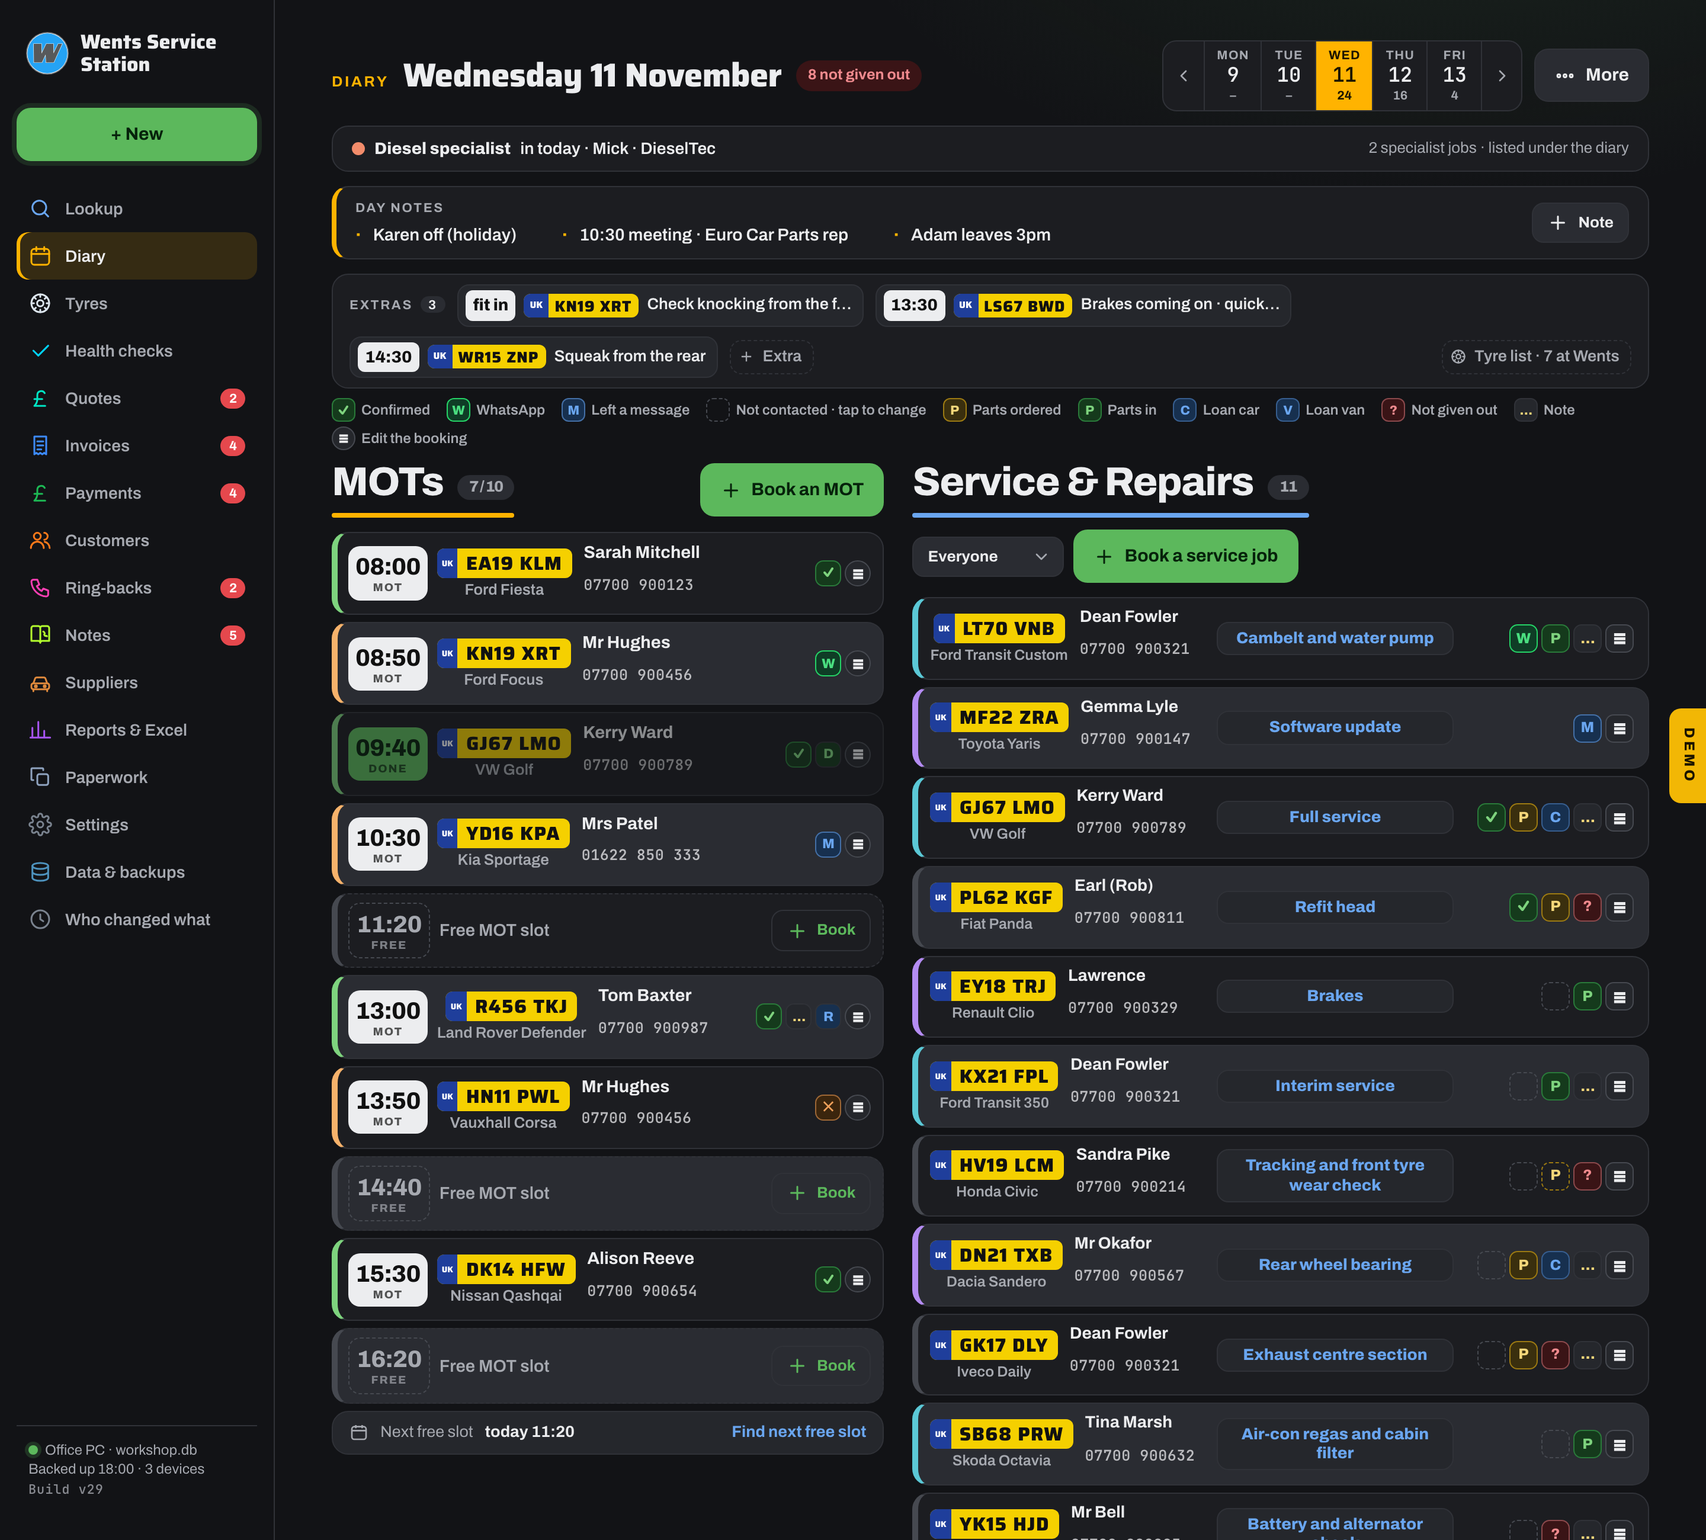
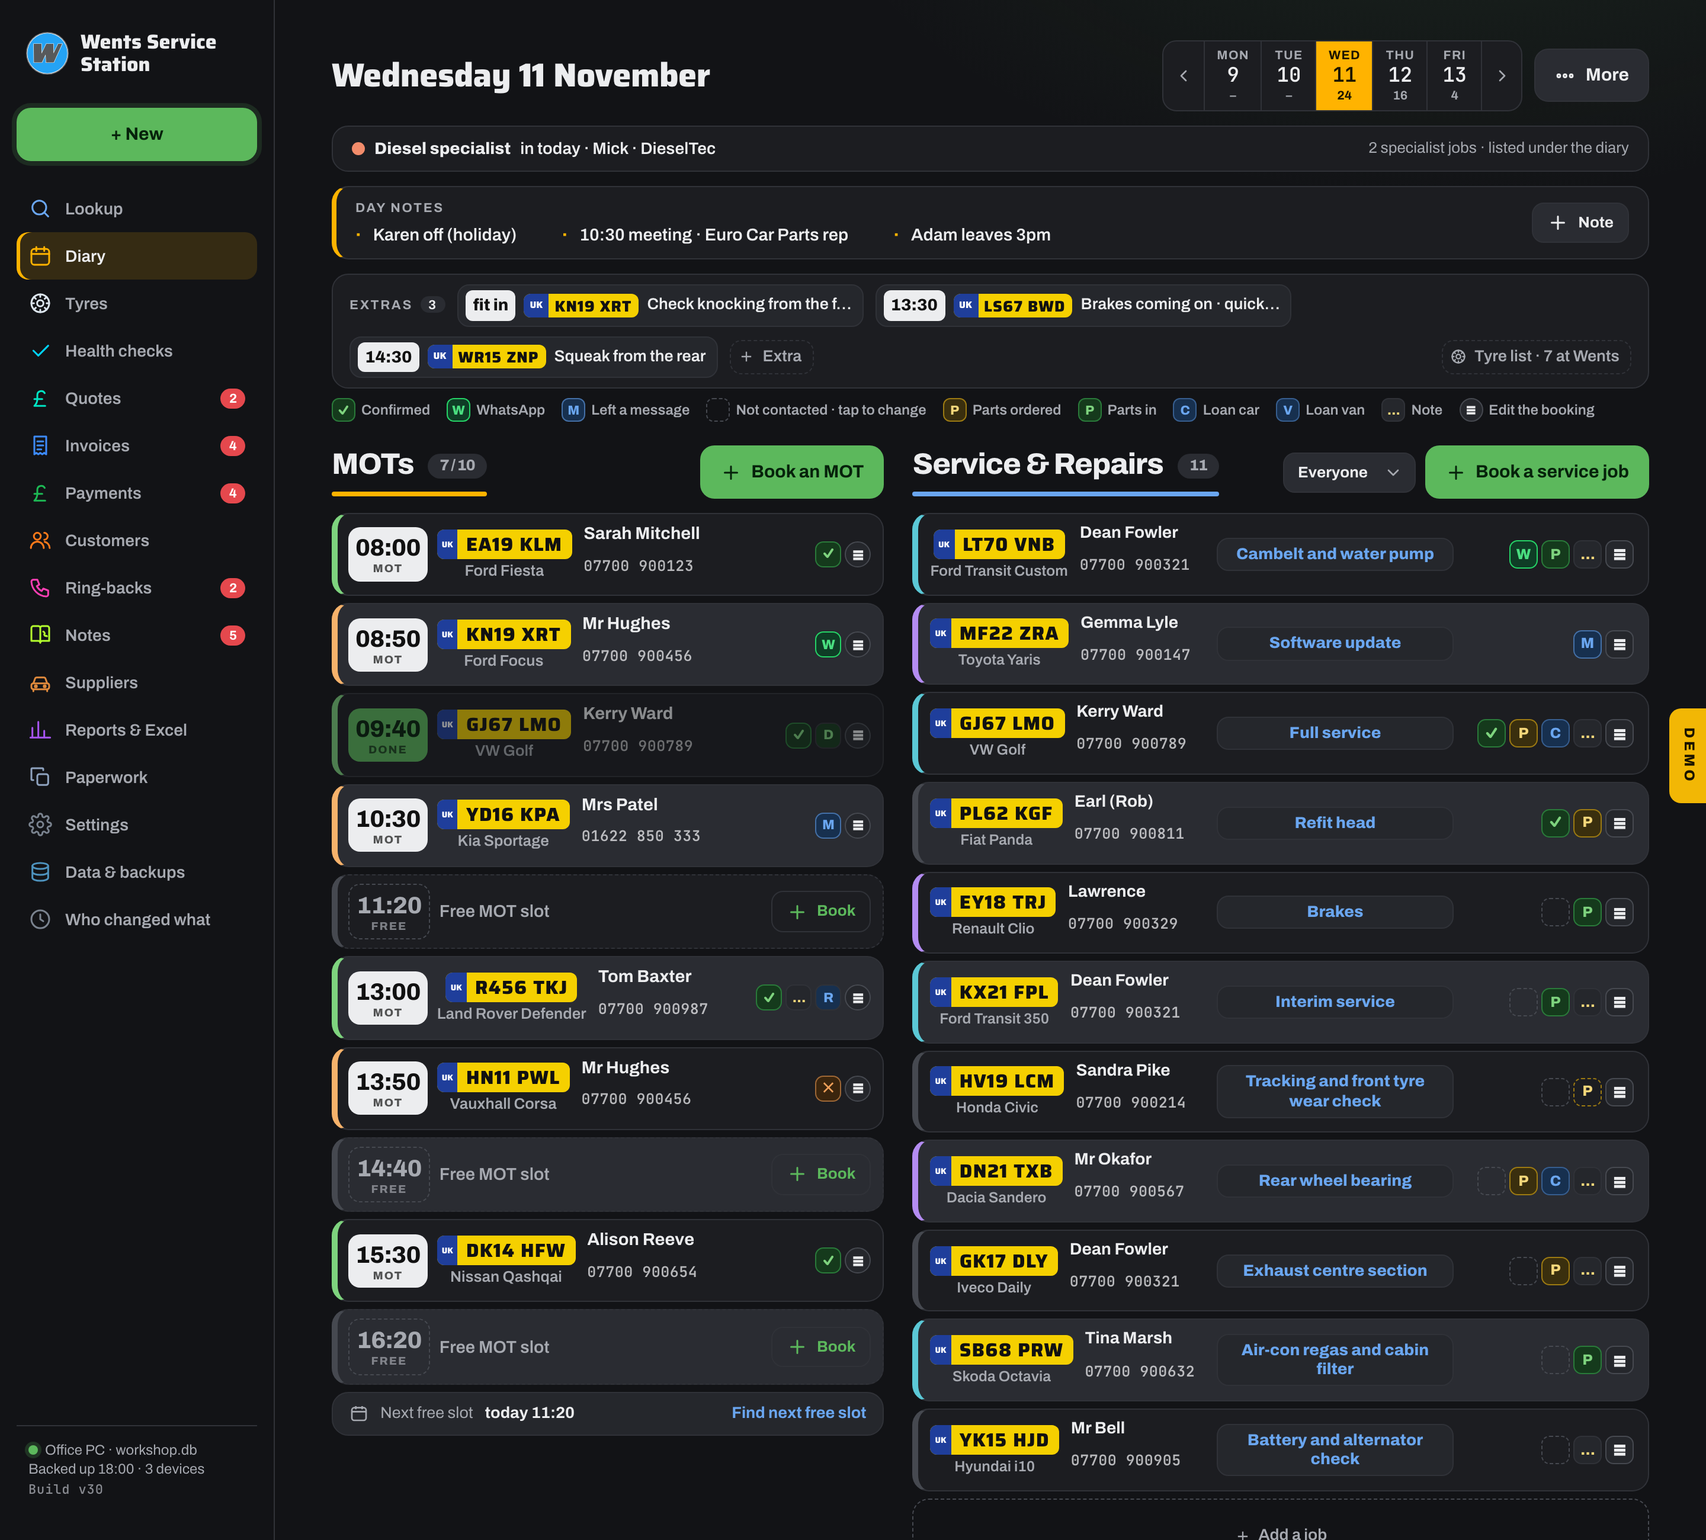
Mock round 34: Service & Repairs controls sit on the title row so both columns start level, a little more room above the column titles, Not given out removed from the legend, header pill and row squares, Diary label dropped from the page header and the date moved left; workshop-v30

Changed region(s): [[0.1875, 0.2492, 0.9688, 1.0], [0.1875, 0.0312, 0.5625, 0.0623], [0.875, 0.9658, 0.9688, 1.0]]

diff --git a/mock/index.html b/mock/index.html
@@ -885,7 +885,7 @@ a.stat{display:block} a.stat:hover{border-color:var(--line-strong)}
 /* round 19 · diary: notes across the top, section buttons, booking form in two equal columns */
 .secctl{display:flex;gap:8px;align-items:center;flex-wrap:wrap} .secctl .sel{margin:0}
 .dvsec .sechd{margin-bottom:8px} .dvsec .sechd .btn.pri{box-shadow:none}
-.dv .dvsec.colh .sechd{align-items:center;margin-bottom:12px} .dv .dvsec.colh h2{position:relative;font-size:30px;font-weight:900;letter-spacing:-.025em;line-height:1;padding:0 0 12px;gap:12px;align-items:baseline} .dv .dvsec.colh h2::after{content:'';position:absolute;left:0;bottom:0;height:4px;width:100%;border-radius:2px;background:var(--hc)} .dv .dvsec.colh.mot{--hc:#FFB300} .dv .dvsec.colh.svc{--hc:var(--accent)} .dv .dvsec.colh h2 .pill{font-size:13px;font-weight:800;padding:4px 10px;transform:translateY(-3px)} @media (min-width:1400px){.dv .dvsec.colh h2{font-size:34px}} @media (max-width:600px){.dv .dvsec.colh h2{font-size:26px;padding-bottom:9px} .dv .dvsec.colh h2::after{height:3px}}
+.dv .dvsec.colh .sechd{align-items:center;margin-bottom:12px;padding-top:10px;flex-wrap:nowrap} .dv .dvsec.colh .sechd>div{min-width:0} .dv .dvsec.colh .secctl{flex-wrap:nowrap;flex:none} .dv .dvsec.colh .secctl .sel{max-width:112px} .dv .dvsec.colh .sechd .btn.pri{white-space:nowrap} .dv .dvsec.colh h2{position:relative;white-space:nowrap;font-size:25px;font-weight:900;letter-spacing:-.025em;line-height:1;padding:0 0 12px;gap:12px;align-items:baseline} .dv .dvsec.colh h2::after{content:'';position:absolute;left:0;bottom:0;height:4px;width:100%;border-radius:2px;background:var(--hc)} .dv .dvsec.colh.mot{--hc:#FFB300} .dv .dvsec.colh.svc{--hc:var(--accent)} .dv .dvsec.colh h2 .pill{font-size:13px;font-weight:800;padding:4px 10px;transform:translateY(-3px)} @media (min-width:1600px){.dv .dvsec.colh h2{font-size:30px}} @media (max-width:600px){.dv .dvsec.colh h2{font-size:26px;padding-bottom:9px} .dv .dvsec.colh h2::after{height:3px}}
 .bk2{display:grid;grid-template-columns:1fr 1fr;gap:0 18px} .bk2>.field{min-width:0} .bk2.bkx{grid-template-columns:repeat(auto-fit,minmax(230px,1fr))}
 .bkbox h2{display:flex;align-items:baseline;gap:12px;flex-wrap:wrap} .bkday{font-size:14px;font-weight:700;color:var(--sc,var(--accent));letter-spacing:.02em}
 .bkbox .regin{font-family:var(--font-mono);font-weight:700;letter-spacing:.06em}
@@ -1642,7 +1642,7 @@ S.diary=()=>{if(pendBook){const r=pendBook;pendBook=null;setTimeout(()=>{openBk(
  const carCus=(b,i,x)=>`<div class="vc"><div class="veh">${pv(b)}<small>${i.make||'<span class="muted">Make not set</span>'}</small></div><div class="cus"><b>${i.name||'<span class="muted">Name not set</span>'}</b>${tel(i)||'<span class="muted">no number</span>'}</div></div>${x||''}`;
  const jobRow=b=>{const i=bkV(b);const ty=b.k==='tyre'&&b.ty?tyFind(b.ty):null;const sp=b.k==='spec'&&b.sp?sps.find(x=>x.id===b.sp):null;
   const xt=b.k==='xtra'?`<span class="xt"><b>${b.t||'fit in'}</b>${b.mins?' · '+b.mins+' min':''}</span>`:b.k==='tyre'?`<span class="xt"><b>${b.t||'—'}</b> · call-out</span>`:b.k==='spec'?`<span class="xt"><b>${b.t||'—'}</b></span>`:'';
-  return `<div class="dvjob k-${b.k}" style="--who:${sp?sp.c:b.who?(WHO[b.who]||{c:'var(--line-strong)'}).c:'var(--line-strong)'}" onclick="openBk('${b.id}')"><div class="bm">${xt?`<div class="jt">${xt}</div>`:''}${carCus(b,i)}${b.k==='tyre'&&b.addr?`<div class="nt">${I.pin} ${esc(b.addr)}</div>`:''}</div><div class="jbx">${b.job?`<span class="jb">${b.job}</span>`:'<span class="muted">No job written down</span>'}</div><div class="rt">${ty?`<span class="pill ${TYCS[ty.r.cs][1]}">${TYCS[ty.r.cs][0]}</span><a class="pill" href="#/tyres/${ty.d}" onclick="event.stopPropagation()">${TYI}Tyre diary</a>`:''}${sqs(b,{cf:!ty,ng:!sp})}${edBtn(b)}</div></div>`};
+  return `<div class="dvjob k-${b.k}" style="--who:${sp?sp.c:b.who?(WHO[b.who]||{c:'var(--line-strong)'}).c:'var(--line-strong)'}" onclick="openBk('${b.id}')"><div class="bm">${xt?`<div class="jt">${xt}</div>`:''}${carCus(b,i)}${b.k==='tyre'&&b.addr?`<div class="nt">${I.pin} ${esc(b.addr)}</div>`:''}</div><div class="jbx">${b.job?`<span class="jb">${b.job}</span>`:'<span class="muted">No job written down</span>'}</div><div class="rt">${ty?`<span class="pill ${TYCS[ty.r.cs][1]}">${TYCS[ty.r.cs][0]}</span><a class="pill" href="#/tyres/${ty.d}" onclick="event.stopPropagation()">${TYI}Tyre diary</a>`:''}${sqs(b,{cf:!ty,ng:false})}${edBtn(b)}</div></div>`};
  const addRow=(l,k)=>`<div class="dvjob add" onclick="openBk('new','${k}')"><span class="muted">${I.plus} ${l}</span></div>`;
  const sec=(k,h,cap,ctl,body)=>show(k)?`<section class="dvsec${k==='svc'?' colh svc':''}"><div class="sechd"><div><h2>${h}</h2>${cap?`<p class="cap">${cap}</p>`:''}</div>${ctl||''}</div>${body}</section>`:'';
  const ab=(t,n=26)=>{t=String(t||'');return t.length>n?t.slice(0,n-1).trim()+'…':t};
@@ -1650,14 +1650,14 @@ S.diary=()=>{if(pendBook){const r=pendBook;pendBook=null;setTimeout(()=>{openBk(
  const strip=dTab==='all'?`<div class="dvstrip"><div class="lbl">Extras<em>${xtra.length}</em></div><div class="sxs">${xtra.map(sx).join('')}<button class="dsx add" onclick="openBk('new','xtra')">${I.plus}Extra</button><a class="dsx lnk" href="#/tyres/${day}">${TYI}Tyre list · ${tyn.cars} at Wents</a></div></div>`:'';
  const whoSel=`<select class="sel" onchange="whoF=this.value;go()" title="Whose jobs to show">${[['all','Everyone'],...Object.entries(FITTERS).map(([k,w])=>[k,w.n]),['none','Not given out']].map(([k,l])=>`<option value="${k}" ${whoF===k?'selected':''}>${l}</option>`).join('')}</select>`;
  return `<div class="dv tm-${tmv}">
- <div class="dvh"><div class="dvt"><span class="eyebrow">Diary</span><h1 class="title">${fmt(day,{weekday:'long',day:'numeric',month:'long'})}</h1>${none?`<span class="pill r" title="Jobs not given to anyone yet">${none} not given out</span>`:''}</div>
+ <div class="dvh"><div class="dvt"><h1 class="title">${fmt(day,{weekday:'long',day:'numeric',month:'long'})}</h1></div>
  <div class="dvacts"><div class="week"><button class="wk" onclick="day='${addD(mon,-7)}';go()" title="Previous week">${I.chev}</button>${wk.map(d=>`<button class="${d===day?'on':''}" onclick="day='${d}';go()">${fmt(d,{weekday:'short'})}<b>${new Date(d+'T12:00:00').getDate()}</b><span>${(BK[d]||[]).length||'–'}</span></button>`).join('')}<button class="wk" onclick="day='${addD(mon,7)}';go()" title="Next week">${I.chev}</button></div>
  <details class="menu"><summary class="btn">${I.more}More</summary><div class="pop"><div class="lbl">This day</div><a href="#/doc/diaryday/${day}">${I.dl}A4 day sheet</a><button onclick="prtDoc('diaryday','${day}')">${I.prt}Print day sheet</button><a href="#/tyres/${day}">${TYI}Tyre list <span class="n">${tyn.cars+tyn.co}</span></a><hr><div class="lbl">Bookings</div><button onclick="nextSlot()">${I.cal}Find next MOT slot</button><a href="#/ringround/${addD(day,1)}">${I.check}Confirm ${addD(day,1)===addD(TD,1)?'tomorrow':fmt(addD(day,1),{weekday:'short'})} <span class="n">${cf1.ok}/${cf1.tot}</span></a><a href="#/waitlist">${I.clock}Cancellation list <span class="n">${mcWaiting()}</span></a><hr><div class="lbl">Time style</div>${Object.entries(TMV).map(([k,l])=>`<button class="${tmv===k?'on':''}" onclick="setTmv('${k}')">${tmv===k?I.check:'<span class="sp"></span>'}${l}</button>`).join('')}<hr><div class="lbl">Show</div>${[['all','Whole day'],['mot','MOTs'],['svc','Service &amp; Repairs'],['xtra','Extras'],['tyre','Tyre call-outs'],['spec','Specialists']].map(([k,l])=>`<button class="${dTab===k?'on':''}" onclick="dTab='${k}';go()">${dTab===k?I.check:'<span class="sp"></span>'}${l}</button>`).join('')}</div></details>
 </div></div>
  ${sps.length&&dTab==='all'?`<div class="spban">${sps.map(x=>`<span class="spw" style="--c:${x.c}"><i></i><b>${x.n}</b> in today · ${x.who}</span>`).join('')}<span class="spn">${spec.length} specialist job${spec.length===1?'':'s'} · listed under the diary</span></div>`:''}
  ${dTab==='all'?`<div class="dvnotes"><div><div class="lbl">Day notes</div><ul>${notes.map((n,ix)=>`<li><span onclick="editNote(${ix})" title="Edit note">${n}</span><button class="x" onclick="NOTES['${day}'].splice(${ix},1);go()" title="Delete note">${I.x}</button></li>`).join('')||'<li class="none">Nothing noted · who is off, meeting times · prints at the top of the A4 sheet</li>'}</ul></div><button class="btn sm" onclick="addNote()">${I.plus}Note</button></div>`:''}
  ${strip}
- <div class="dvkey"><span><i class="sq cf ok">&#10003;</i>Confirmed</span><span><i class="sq cf wa">W</i>WhatsApp</span><span><i class="sq cf msg">M</i>Left a message</span><span><i class="sq cf none"></i>Not contacted · tap to change</span><span><i class="sq pt ordered">P</i>Parts ordered</span><span><i class="sq pt in">P</i>Parts in</span><span><i class="sq ln">C</i>Loan car</span><span><i class="sq ln">V</i>Loan van</span><span><i class="sq ng">?</i>Not given out</span><span><i class="sq nq">&#8230;</i>Note</span><span><i class="wlb edb">&#8801;</i>Edit the booking</span></div>
+ <div class="dvkey"><span><i class="sq cf ok">&#10003;</i>Confirmed</span><span><i class="sq cf wa">W</i>WhatsApp</span><span><i class="sq cf msg">M</i>Left a message</span><span><i class="sq cf none"></i>Not contacted · tap to change</span><span><i class="sq pt ordered">P</i>Parts ordered</span><span><i class="sq pt in">P</i>Parts in</span><span><i class="sq ln">C</i>Loan car</span><span><i class="sq ln">V</i>Loan van</span><span><i class="sq nq">&#8230;</i>Note</span><span><i class="wlb edb">&#8801;</i>Edit the booking</span></div>
  <div class="cols ${dTab==='all'?'':'one'}">
  ${show('mot')?`<section class="dvsec colh mot"><div class="sechd"><div><h2>MOTs <span class="pill ${freeN?'':'g'}">${mot.length} / ${SLOTS.length}</span></h2></div><button class="btn pri" onclick="openBk('new','mot')">${I.plus}Book an MOT</button></div><div class="dvramp">${SLOTS.map(slotRow).join('')}<div class="nextfree">${I.cal}${freeN?`Next free slot <b>${day===TD?'today':fmt(day,{weekday:'long'})} ${freeT[0]}</b>`:'<b>Ramp full</b>'}<a onclick="nextSlot()">Find next free slot</a></div></div></section>`:''}
  ${dTab!=='mot'?`<div class="dvr">
@@ -1672,7 +1672,7 @@ S.diary=()=>{if(pendBook){const r=pendBook;pendBook=null;setTimeout(()=>{openBk(
 const bkRow=b=>{const i=bkV(b);const js=JOBS.find(x=>x.r===b.reg&&x.st!=='inv');const open=i.known?`location.hash='#/vehicle/${enc(b.reg)}'`:`openBk('${b.id}')`;
  return `<div class="bk k-${b.k} ${b.st==='done'?'isdone':''}" style="--who:${b.who?(WHO[b.who]||{c:'var(--line-strong)'}).c:'var(--line-strong)'}">${b.k==='mot'?`<div class="tm">${b.t}<small>MOT slot</small></div>`:b.k==='tyre'?`<div class="tm">${b.t||'—'}<small>call-out</small></div>`:b.k==='xtra'?`<div class="tm">${b.t||'—'}<small>${b.mins?b.mins+' min':'fit in'}</small></div>`:`<div class="grab">⋮⋮</div>`}
  <div class="bm link" onclick="${open}"><h4>${i.make||'<span class="muted">Make not set</span>'}</h4><div class="ln">${plate(b.reg,'sm')}<b>${i.name}</b><a href="tel:${i.ph}" onclick="event.stopPropagation()">${i.ph}</a>${b.k==='tyre'?(x=>x?`<span class="pill ${TYCS[x.r.cs][1]}">${TYCS[x.r.cs][0]}</span><a class="pill" href="#/tyres/${x.d}" onclick="event.stopPropagation()">${TYI}Tyre diary</a>`:'')(b.ty?tyFind(b.ty):null):cfDot(b)+bkPills(b)}${b.st==='done'?'<span class="pill g">Done</span>':''}${(w=>w?`<span class="pill ${w.st==='wait'?'y':'g'} wl" title="On the cancellation list">${w.st==='wait'?'Waiting':w.st==='moved'?'Moved forward':'Rebooked'}</span>`:'')(wlOf(b.id))}</div>${b.job?`<div class="jb">${b.job}</div>`:''}${b.k==='tyre'&&b.addr?`<div class="nt">${I.pin} ${esc(b.addr)}</div>`:''}${b.nt?`<div class="nt">${b.nt}</div>`:''}</div>
- <div class="act">${b.parts&&PARTS[b.parts]?`<span class="pill ${PARTS[b.parts][1]}">${PARTS[b.parts][0]}</span>`:''}${b.loan?`<span class="pill b">${LOAN[b.loan]}</span>`:''}${b.who?'':'<span class="pill r">Not given out</span>'}${b.k==='tyre'?'':(w=>w?`<button class="btn sm ghost wlb on" onclick="wlShow('${w.id}')" title="On the cancellation list">${I.clock}Waiting list</button>`:`<button class="btn sm ghost wlb ic" onclick="wlFlag('${b.id}')" title="Wants an earlier slot · add to the cancellation list">${I.clock}</button>`)(wlOf(b.id))}<button class="btn sm" onclick="openBk('${b.id}')">Edit</button>${b.k==='tyre'?'':`<button class="btn sm ghost" onclick="openBk('${b.id}','move')">Move</button>`}${b.who?`<span class="whotag" style="--c:${WHO[b.who].c}" title="${WHO[b.who].n} is on it"><i>${WHO[b.who].n[0]}</i>${WHO[b.who].n}</span>`:''}${edBadge('booking',b.id)}</div></div>`};
+ <div class="act">${b.parts&&PARTS[b.parts]?`<span class="pill ${PARTS[b.parts][1]}">${PARTS[b.parts][0]}</span>`:''}${b.loan?`<span class="pill b">${LOAN[b.loan]}</span>`:''}${b.k==='tyre'?'':(w=>w?`<button class="btn sm ghost wlb on" onclick="wlShow('${w.id}')" title="On the cancellation list">${I.clock}Waiting list</button>`:`<button class="btn sm ghost wlb ic" onclick="wlFlag('${b.id}')" title="Wants an earlier slot · add to the cancellation list">${I.clock}</button>`)(wlOf(b.id))}<button class="btn sm" onclick="openBk('${b.id}')">Edit</button>${b.k==='tyre'?'':`<button class="btn sm ghost" onclick="openBk('${b.id}','move')">Move</button>`}${b.who?`<span class="whotag" style="--c:${WHO[b.who].c}" title="${WHO[b.who].n} is on it"><i>${WHO[b.who].n[0]}</i>${WHO[b.who].n}</span>`:''}${edBadge('booking',b.id)}</div></div>`};
 const bkModal=()=>{const b=edBk;const i=bkV(b);const d0=b.day||day;const mon0=addD(d0,-((new Date(d0+'T12:00:00').getDay()+6)%7));const days=[-5,-4,-3,-2,-1,0,1,2,3,4,7,8,9,10,11].map(n=>addD(mon0,n));if(!days.includes(d0))days.push(d0);days.sort();const KN={mot:'an MOT',svc:'a service job',xtra:'an extra',tyre:'a tyre call-out',spec:'a specialist job'};const sps=SPEC[d0]||[];if(b.view&&!b._pick)return bkView(b,i,d0,sps);
  const slotF=b.k==='mot'?`<label class="field"><span>MOT slot</span><select onchange="edBk.t=this.value">${SLOTS.map(t=>{const taken=(BK[d0]||[]).find(x=>x.k==='mot'&&x.t===t&&x.id!==b.id);return `<option value="${t}" ${b.t===t?'selected':''} ${taken?'disabled':''}>${t}${taken?' · taken':''}</option>`}).join('')}</select></label>`:b.k==='tyre'?`<label class="field"><span>Call-out time</span>${tmSel('edBk',b.t)}</label>`:b.k==='xtra'?`<label class="field"><span>Rough time</span><input value="${b.t||''}" placeholder="e.g. 13:30 or 'between jobs'" oninput="edBk.t=this.value"></label>`:b.k==='spec'?`${sps.length>1?`<label class="field"><span>Which specialist</span><select onchange="edBk.sp=this.value">${sps.map(x=>`<option value="${x.id}" ${b.sp===x.id?'selected':''}>${x.n} · ${x.who}</option>`).join('')}</select></label>`:''}<label class="field"><span>Time with the ${(sps.find(x=>x.id===b.sp)||sps[0]||{n:'specialist'}).n.toLowerCase()}</span>${tmSel('edBk',b.t)}</label>`:'';
  const dateF=b.fresh?'':`<label class="field"><span>Date</span><select onchange="edBk.day=this.value;go()">${days.map(d=>`<option value="${d}" ${d0===d?'selected':''}>${fmt(d,{weekday:'short',day:'numeric',month:'short'})}</option>`).join('')}</select></label>`;
@@ -3307,7 +3307,7 @@ const qa=v=>String(v==null?'':v).replace(/&/g,'&amp;').replace(/"/g,'&quot;').re
 const sq=(c,t,ti,oc)=>oc?`<button class="sq ${c}" title="${qa(ti)}" onclick="event.stopPropagation();${oc}">${t}</button>`:`<span class="sq ${c}" title="${qa(ti)}">${t}</span>`;
 const cfSq=b=>{const s=cfSt(b);return sq('cf '+s,CFG[s],CFS[s][0]+(b.cf&&b.cf.who&&WHO[b.cf.who]?' · '+WHO[b.cf.who].n+' '+b.cf.at:'')+' · tap to change',`cfCycle('${b.id}')`)};
 const ptSq=b=>{const s=b.parts&&PARTS[b.parts]?b.parts:(b.partsNote?'todo':'');if(!s)return '';return sq('pt '+s,'P',(s==='todo'?'Parts to order':PARTS[s][0])+(b.partsNote?' · '+b.partsNote:'')+' · tap to change',`ptCycle('${b.id}')`)};
-const sqs=(b,o={})=>{const w=wlOf(b.id);const aq=QUOTES.find(q=>q.r===b.reg&&q.appr&&q.appr.st==='approved'&&!q.inv);const ri=invoices.find(i=>i.reg===b.reg&&i.ready&&i.date<=day&&(new Date(day)-new Date(i.date))/864e5<=14);return (o.cf===false?'':cfSq(b))+ptSq(b)+(b.loan?sq('ln',b.loan==='car'?'C':'V',LOAN[b.loan]):'')+(o.ng===false||b.who?'':sq('ng','?','Not given out · nobody on it yet'))+(b.nt?sq('nq','&#8230;','Note · '+b.nt):'')+(aq?sq('ap','&pound;','Quote approved · '+apLine(aq)):'')+(ri?sq('rd','R','Ready · customer told '+ri.ready.at.slice(-5)):'')+(b.st==='done'?sq('dn','D','Done'):'')+(o.wl===false||!w?'':sq('wl '+w.st,I.clock,'On the cancellation list · '+(w.st==='wait'?'waiting':w.st==='moved'?'moved forward':'rebooked'),`wlShow('${w.id}')`))};
+const sqs=(b,o={})=>{const w=wlOf(b.id);const aq=QUOTES.find(q=>q.r===b.reg&&q.appr&&q.appr.st==='approved'&&!q.inv);const ri=invoices.find(i=>i.reg===b.reg&&i.ready&&i.date<=day&&(new Date(day)-new Date(i.date))/864e5<=14);return (o.cf===false?'':cfSq(b))+ptSq(b)+(b.loan?sq('ln',b.loan==='car'?'C':'V',LOAN[b.loan]):'')+(o.ng===true&&!b.who?sq('ng','?','Not given out · nobody on it yet'):'')+(b.nt?sq('nq','&#8230;','Note · '+b.nt):'')+(aq?sq('ap','&pound;','Quote approved · '+apLine(aq)):'')+(ri?sq('rd','R','Ready · customer told '+ri.ready.at.slice(-5)):'')+(b.st==='done'?sq('dn','D','Done'):'')+(o.wl===false||!w?'':sq('wl '+w.st,I.clock,'On the cancellation list · '+(w.st==='wait'?'waiting':w.st==='moved'?'moved forward':'rebooked'),`wlShow('${w.id}')`))};
 window.ptCycle=id=>{const b=bkB(id);if(!b)return;const ord=['','ordered','in'];const pre=b.parts||'';const s=ord[(ord.indexOf(pre)+1)%3];const L=v=>v?PARTS[v][0]:(b.partsNote?'To order':'No parts');b.parts=s;aud('booking',id,'parts',{reg:b.reg,field:'Parts',old:L(pre),new:L(s),text:`marked ${b.reg} parts as ${L(s).toLowerCase()}`});toast(L(s)+(b.partsNote?' · '+b.partsNote:''));nRe()};
 const cfDot=b=>{const s=cfSt(b);return `<button class="cfd ${s}" title="${CFS[s][0]}${b.cf&&b.cf.who?' · '+WHO[b.cf.who].n+' '+b.cf.at:''} · tap to change" onclick="event.stopPropagation();cfCycle('${b.id}')"><i></i>${CFS[s][0]}</button>`};
 const bkB=id=>{for(const d in BK){const b=(BK[d]||[]).find(x=>x.id===id);if(b)return b}return null};

diff --git a/mock/sw.js b/mock/sw.js
@@ -1,6 +1,6 @@
 // Workshop (Garage System mock) offline support: keeps a copy of the app so it opens with no signal.
 // Bump VERSION whenever index.html, makes.js, logos or icons change, so installed copies pick up the update.
-const VERSION = 'workshop-v29';
+const VERSION = 'workshop-v30';
 const CORE = [
   './',
   'index.html',
